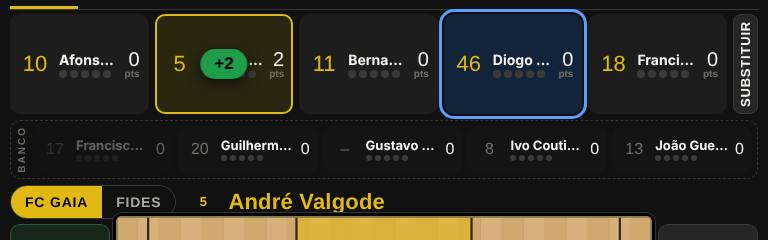
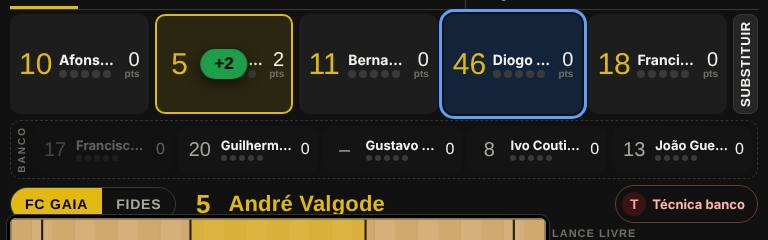
Ações num painel à direita do campo com pares lado a lado; Técnica banco maior no canto; assistência com número e nome; guia rápido atualizado
Claude-Session: https://claude.ai/code/session_011MJLTkQqLgfMWcZVacVG5X

diff --git a/index.html b/index.html
@@ -623,6 +623,36 @@ body.fit .pl.bench .av.nbonly .nb{font-size:20px!important}
 .tbtn b{color:var(--ko)}
 .tbm{max-width:480px!important}.tbk{border-top:1px solid var(--line);padding-top:10px;margin-top:10px}.tbk h4{margin:0 0 2px}.tbk .hint{margin:0}
 .zsep2 path{fill:none;stroke:rgba(255,255,255,.55);stroke-width:5}
+
+/* ===== v14: painel de ações à direita, pares lado a lado ===== */
+.cgrid{grid-template-columns:minmax(0,var(--cw,620px)) 228px!important;justify-content:center}
+.acts.panel{display:grid;grid-template-columns:1fr 1fr;grid-template-rows:auto 1fr auto 1fr auto 1fr auto 1fr auto 1fr .62fr;gap:4px 6px;min-height:0;align-content:stretch}
+.acts.panel .pg{grid-column:1/-1;font-family:var(--f-cond);font-weight:700;font-size:11px;letter-spacing:1px;text-transform:uppercase;color:var(--dim);margin-top:3px;line-height:1}
+.acts.panel .pg:first-child{margin-top:0}
+.acts.panel .act{min-height:44px;padding:2px;font-size:17px}
+.acts.panel .act.mk,.acts.panel .act.ms{font-size:24px;line-height:1}.acts.panel .act.mk small,.acts.panel .act.ms small{font-size:10px;margin-top:2px}
+.acts.panel .act.fx{font-size:13px!important}
+body.fit .cgrid{grid-template-columns:var(--cw,minmax(0,1fr)) 228px!important}
+body.fit .acts.panel .act{min-height:0}
+@media (max-width:1100px) and (orientation:portrait){body.fit .cgrid{grid-template-columns:var(--cw,minmax(0,1fr)) 206px!important}.acts.panel .act{font-size:15px}}
+@media (max-width:1100px) and (orientation:landscape){body.fit .cgrid{grid-template-columns:var(--cw,minmax(0,1fr)) 200px!important}}
+@media (max-width:600px){.cgrid{grid-template-columns:1fr!important}.acts.panel{grid-template-rows:none}}
+.tbtn{display:inline-flex;align-items:center;gap:6px;border:1px solid #6b3a35!important;border-style:solid!important;color:#ffb4ab!important;font-size:13px!important;padding:6px 12px 6px 6px!important;min-height:36px}
+.tbtn i{font-style:normal;width:24px;height:24px;border-radius:50%;display:grid;place-items:center;background:#3a1414;color:#ff9b91;font-family:var(--f-disp);font-size:14px}
+:root[data-theme=light] .tbtn{color:#b0352b!important;border-color:#e0a39d!important}:root[data-theme=light] .tbtn i{background:#fbe4e1;color:#b0352b}
+.astp{padding:8px 8px 8px 14px;gap:6px;max-width:96%;flex-wrap:wrap;justify-content:center;border-radius:18px}
+.astp button{display:flex;flex-direction:column;align-items:center;justify-content:center;min-width:76px;height:auto;padding:5px 10px;border-radius:12px;line-height:1.05}
+.astp button b{font-family:var(--f-disp);font-weight:400;font-size:24px;color:var(--gold)}
+.astp button span{font-family:var(--f-cond);font-weight:700;font-size:14px;color:#fff;max-width:96px;overflow:hidden;text-overflow:ellipsis;white-space:nowrap}
+.astp button.no{align-self:stretch;height:auto}
+.acts.panel{grid-template-columns:minmax(0,1fr) minmax(0,1fr)}.acts.panel .act{letter-spacing:.2px;overflow:hidden}
+@media (max-width:1100px){.acts.panel .act{font-size:14px!important}.acts.panel .act.mk,.acts.panel .act.ms{font-size:22px!important}}
+.astp{display:grid!important;grid-template-columns:repeat(5,auto);border-radius:16px;padding:8px}
+.astp>span{grid-column:1/-1;text-align:center;margin:0 0 2px}
+.astp button{min-width:80px}.astp button.no{min-width:56px}
+@media (max-width:1100px) and (orientation:portrait){.astp{width:max-content;max-width:98%}.astp button{min-width:82px;padding:5px 6px}.astp button.no{min-width:50px}.astp button span{max-width:80px;font-size:13px}}
+.acts.panel .act:not(.mk):not(.ms):not(.fx){font-size:15px!important}
+@media (max-width:1100px) and (orientation:portrait){.acts.panel .act:not(.mk):not(.ms):not(.fx){font-size:13.5px!important;letter-spacing:0}}
 </style></head>
 <body>
 <header class="top"><a class="brand" id="brand" href="#" title="Ir para o início de sessão"><img id="crest" alt=""><h1>FC Gaia<small>Estatísticas de jogo</small></h1></a><span class="sp"></span><button class="thm" id="help" type="button" aria-label="Ajuda" title="Guia rápido">?</button><button class="thm" id="thm" type="button" aria-label="Mudar tema"></button><div class="who" id="who"></div>
@@ -632,7 +662,7 @@ body.fit .pl.bench .av.nbonly .nb{font-size:20px!important}
 <script src="xlsx.full.min.js"></script>
 <script>
[1 lines of base64/hex data omitted]
-const VER="17/10 00:22";
+const VER="17/10 00:27";
 let DATA=null;
 const TEAMS=[["Seniores Masc","Seniores"],["Esperanças","Esperanças"],["Sub-18 Masc A","Sub 18 A"],["Sub-18 Masc B","Sub 18 B"],["Sub-16 Masc A","Sub 16 A"],["Sub-16 Masc B","Sub 16 B"],["Sub-14 Masc A","Sub 14 A"],["Sub-14 Masc B","Sub 14 B"],["Sub-12","Sub 12"],["Sub-10","Sub 10"],["Sub-8","Sub 8"]];
 const TN=Object.fromEntries(TEAMS);
@@ -1213,7 +1243,7 @@ function actOpp(type,extra){const s=G.ost;snap();let pts=0;
 let ASTP=null;
 function astBar(){if(!ASTP||SIDE==="them"||Date.now()-ASTP.t>9000||!G.oncourt.includes(ASTP.id))return "";
   const mates=G.oncourt.filter(x=>x!==ASTP.id).map(pById);
-  return `<div class="astp" role="group" aria-label="Assistência"><span>Assistência?</span>${mates.map(p=>`<button data-ast="${esc(p.id)}" title="${esc(p.name)}">${esc(p.num||"–")}</button>`).join("")}<button data-ast="" class="no">Não</button></div>`}
+  return `<div class="astp" role="group" aria-label="Assistência"><span>Assistência?</span>${mates.map(p=>{const w=String(p.name).trim().split(/\s+/);const fn=w[0],dup=mates.filter(q=>String(q.name).split(/\s+/)[0]===fn).length>1;return `<button data-ast="${esc(p.id)}"><b>${esc(p.num||"–")}</b><span>${esc(fn+(dup&&w.length>1?" "+w[w.length-1][0]+".":""))}</span></button>`}).join("")}<button data-ast="" class="no">Não</button></div>`}
 function giveAst(id){ASTP=null;if(!id){render();return}snap();G.st[id].ast++;addLog({t:"ast",id});FLASH={id,t:Date.now(),x:"Assistência",c:""};store();render()}
 function act(type,extra){if(SIDE==="them")return actOpp(type,extra);ASTP=null;if(!SEL){toast("Escolhe primeiro um atleta");return}const id=SEL,s=G.st[id];snap();
   let pts=0;
@@ -1295,8 +1325,8 @@ const eff=s=>s.pts+s.or+s.dr+s.ast+s.stl+s.blk-(s.a2-s.m2)-(s.a3-s.m3)-(s.af-s.m
 function bsRows(){return G.roster.map(p=>{const s=G.st[p.id];return {p,s}})}
 /* modo de jogo: tudo cabe num ecrã (tablet), o campo ocupa o espaço que sobra */
 const FITQ=matchMedia("(min-width:700px) and (min-height:560px)");
-function fitCourt(){const g=document.querySelector(".fit .cgrid");if(!g)return;const cs=getComputedStyle(g),side=document.querySelector(".cgrid .al");
-  const w=g.clientWidth-2*(side?side.offsetWidth:0)-2*parseFloat(cs.columnGap||0),h=g.clientHeight;const s=Math.max(200,Math.floor(Math.min(w,h*1500/1400)));g.style.setProperty("--cw",s+"px")}
+function fitCourt(){const g=document.querySelector(".fit .cgrid");if(!g)return;const cs=getComputedStyle(g),side=document.querySelector(".cgrid .panel");
+  const w=g.clientWidth-(side?side.offsetWidth:0)-parseFloat(cs.columnGap||0),h=g.clientHeight;const s=Math.max(200,Math.floor(Math.min(w,h*1500/1400)));g.style.setProperty("--cw",s+"px")}
 addEventListener("resize",()=>{if(G&&VIEW==="live"){document.body.classList.toggle("fit",G.status!=="fim"&&FITQ.matches);fitCourt()}});
 function render(){if(!G)return renderSetup();const fin=G.status==="fim"||isRO();if(fin&&VIEW==="live")VIEW="team";document.body.classList.toggle("fit",VIEW==="live"&&!fin&&FITQ.matches);$("#b-new").hidden=true;$("#gact").hidden=false;
   $("#b-save").textContent=fin?"‹ Voltar":"Gravar e sair";$("#b-cancel").hidden=true;
@@ -1327,11 +1357,17 @@ function render(){if(!G)return renderSetup();const fin=G.status==="fim"||isRO();
       <div class="benchw" data-zone="bench"><h3>Banco</h3><div class="plist bench">${bench.map(p=>plb(p,true)).join("")}</div></div></div>
      <div class="ccol"><div class="sidebar"><div class="seg2" role="group" aria-label="Equipa"><button data-side="us" aria-pressed="${!opp}">FC Gaia</button><button data-side="them" aria-pressed="${opp}">${esc(G.opp)}</button></div>
       <div class="selname${opp?" o":""}${sp&&!opp&&!need?" has":""}">${opp?`Ações da equipa adversária`:need>0?"Escolhe o cinco inicial":sp?`${av(sp)}<span>${esc(sp.name)}</span>`:"Toca num atleta em campo"}</div>
-      <button class="tbtn" id="b-tb" title="Falta técnica ao treinador ou ao banco">T. banco${(()=>{const c=coachF();const n=c.us.c+c.us.b+c.them.c+c.them.b;return n?` <b>${n}</b>`:""})()}</button></div>
+      <button class="tbtn" id="b-tb" title="Falta técnica ao treinador ou ao banco"><i>T</i>Técnica banco${(()=>{const c=coachF();const n=c.us.c+c.us.b+c.them.c+c.them.b;return n?` <b>${n}</b>`:""})()}</button></div>
       <div class="cgrid">
-       <div class="acts side al">${A("1+","L. livre","Convertido","mk")}${A("or","Ressalto","Ofensivo")}${A("stl","Roubo")}${A("ast","Assist.")}${A("fp","Falta","Pessoal","fl")}${A("fu","Antidesp.","","fx")}</div>
+
        <div class="cwrap${opp?" o":""}"><div class="cin">${courtSVG(shots,true)}<div class="shotpop" id="shotpop" hidden></div>${astBar()}${need>0&&!opp?`<div class="cmask five"><b>Cinco inicial · ${G.oncourt.length}/5</b><span>Toca nos atletas do banco ou arrasta-os para “Em campo”.</span></div>`:dis?`<div class="cmask">Toca num atleta em campo para marcar lançamentos</div>`:""}</div></div>
-       <div class="acts side ar">${A("1-","L. livre","Falhado","ms")}${A("dr","Ressalto","Defensivo")}${A("tov","Perda")}${A("blk","Desarme")}${A("fd","Falta","Recebida","fr")}${A("ft","Técnica","","fx")}</div>
+       <div class="acts panel" aria-label="Ações">
+        <span class="pg">Lance livre</span>${A("1+","✓","Convertido","mk")}${A("1-","✕","Falhado","ms")}
+        <span class="pg">Ressalto</span>${A("or","Ofensivo","","")}${A("dr","Defensivo","","")}
+        <span class="pg">Bola</span>${A("stl","Roubo","","")}${A("tov","Perda","","")}
+        <span class="pg">Passe e defesa</span>${A("ast","Assistência","","")}${A("blk","Desarme","","")}
+        <span class="pg">Faltas</span>${A("fp","Pessoal","Cometida","fl")}${A("fd","Recebida","Sofrida","fr")}
+        ${A("fu","Antidesp.","","fx")}${A("ft","Técnica","","fx")}</div>
       </div>
       <div class="lastbar">${last[0]?`<span class="lq">${last[0].q>G.np?"P"+(last[0].q-G.np):last[0].q+"P"} ${fmtT(last[0].c)}</span><span class="lt">${esc(logText(last[0]))}</span>`:`<span class="lt hint">Toca no campo onde foi o lançamento. Para substituir, arrasta um atleta do banco para cima de quem sai.</span>`}
        <button class="undo" id="b-undo"${G.undo.length?"":" disabled"}>↶ Anular</button></div></div></div>`}

diff --git a/fonte/stats_src.html b/fonte/stats_src.html
@@ -622,6 +622,36 @@ body.fit .pl.bench .av.nbonly .nb{font-size:20px!important}
 .tbtn b{color:var(--ko)}
 .tbm{max-width:480px!important}.tbk{border-top:1px solid var(--line);padding-top:10px;margin-top:10px}.tbk h4{margin:0 0 2px}.tbk .hint{margin:0}
 .zsep2 path{fill:none;stroke:rgba(255,255,255,.55);stroke-width:5}
+
+/* ===== v14: painel de ações à direita, pares lado a lado ===== */
+.cgrid{grid-template-columns:minmax(0,var(--cw,620px)) 228px!important;justify-content:center}
+.acts.panel{display:grid;grid-template-columns:1fr 1fr;grid-template-rows:auto 1fr auto 1fr auto 1fr auto 1fr auto 1fr .62fr;gap:4px 6px;min-height:0;align-content:stretch}
+.acts.panel .pg{grid-column:1/-1;font-family:var(--f-cond);font-weight:700;font-size:11px;letter-spacing:1px;text-transform:uppercase;color:var(--dim);margin-top:3px;line-height:1}
+.acts.panel .pg:first-child{margin-top:0}
+.acts.panel .act{min-height:44px;padding:2px;font-size:17px}
+.acts.panel .act.mk,.acts.panel .act.ms{font-size:24px;line-height:1}.acts.panel .act.mk small,.acts.panel .act.ms small{font-size:10px;margin-top:2px}
+.acts.panel .act.fx{font-size:13px!important}
+body.fit .cgrid{grid-template-columns:var(--cw,minmax(0,1fr)) 228px!important}
+body.fit .acts.panel .act{min-height:0}
+@media (max-width:1100px) and (orientation:portrait){body.fit .cgrid{grid-template-columns:var(--cw,minmax(0,1fr)) 206px!important}.acts.panel .act{font-size:15px}}
+@media (max-width:1100px) and (orientation:landscape){body.fit .cgrid{grid-template-columns:var(--cw,minmax(0,1fr)) 200px!important}}
+@media (max-width:600px){.cgrid{grid-template-columns:1fr!important}.acts.panel{grid-template-rows:none}}
+.tbtn{display:inline-flex;align-items:center;gap:6px;border:1px solid #6b3a35!important;border-style:solid!important;color:#ffb4ab!important;font-size:13px!important;padding:6px 12px 6px 6px!important;min-height:36px}
+.tbtn i{font-style:normal;width:24px;height:24px;border-radius:50%;display:grid;place-items:center;background:#3a1414;color:#ff9b91;font-family:var(--f-disp);font-size:14px}
+:root[data-theme=light] .tbtn{color:#b0352b!important;border-color:#e0a39d!important}:root[data-theme=light] .tbtn i{background:#fbe4e1;color:#b0352b}
+.astp{padding:8px 8px 8px 14px;gap:6px;max-width:96%;flex-wrap:wrap;justify-content:center;border-radius:18px}
+.astp button{display:flex;flex-direction:column;align-items:center;justify-content:center;min-width:76px;height:auto;padding:5px 10px;border-radius:12px;line-height:1.05}
+.astp button b{font-family:var(--f-disp);font-weight:400;font-size:24px;color:var(--gold)}
+.astp button span{font-family:var(--f-cond);font-weight:700;font-size:14px;color:#fff;max-width:96px;overflow:hidden;text-overflow:ellipsis;white-space:nowrap}
+.astp button.no{align-self:stretch;height:auto}
+.acts.panel{grid-template-columns:minmax(0,1fr) minmax(0,1fr)}.acts.panel .act{letter-spacing:.2px;overflow:hidden}
+@media (max-width:1100px){.acts.panel .act{font-size:14px!important}.acts.panel .act.mk,.acts.panel .act.ms{font-size:22px!important}}
+.astp{display:grid!important;grid-template-columns:repeat(5,auto);border-radius:16px;padding:8px}
+.astp>span{grid-column:1/-1;text-align:center;margin:0 0 2px}
+.astp button{min-width:80px}.astp button.no{min-width:56px}
+@media (max-width:1100px) and (orientation:portrait){.astp{width:max-content;max-width:98%}.astp button{min-width:82px;padding:5px 6px}.astp button.no{min-width:50px}.astp button span{max-width:80px;font-size:13px}}
+.acts.panel .act:not(.mk):not(.ms):not(.fx){font-size:15px!important}
+@media (max-width:1100px) and (orientation:portrait){.acts.panel .act:not(.mk):not(.ms):not(.fx){font-size:13.5px!important;letter-spacing:0}}
 </style></head>
 <body>
 <header class="top"><a class="brand" id="brand" href="#" title="Ir para o início de sessão"><img id="crest" alt=""><h1>FC Gaia<small>Estatísticas de jogo</small></h1></a><span class="sp"></span><button class="thm" id="help" type="button" aria-label="Ajuda" title="Guia rápido">?</button><button class="thm" id="thm" type="button" aria-label="Mudar tema"></button><div class="who" id="who"></div>
@@ -1212,7 +1242,7 @@ function actOpp(type,extra){const s=G.ost;snap();let pts=0;
 let ASTP=null;
 function astBar(){if(!ASTP||SIDE==="them"||Date.now()-ASTP.t>9000||!G.oncourt.includes(ASTP.id))return "";
   const mates=G.oncourt.filter(x=>x!==ASTP.id).map(pById);
-  return `<div class="astp" role="group" aria-label="Assistência"><span>Assistência?</span>${mates.map(p=>`<button data-ast="${esc(p.id)}" title="${esc(p.name)}">${esc(p.num||"–")}</button>`).join("")}<button data-ast="" class="no">Não</button></div>`}
+  return `<div class="astp" role="group" aria-label="Assistência"><span>Assistência?</span>${mates.map(p=>{const w=String(p.name).trim().split(/\s+/);const fn=w[0],dup=mates.filter(q=>String(q.name).split(/\s+/)[0]===fn).length>1;return `<button data-ast="${esc(p.id)}"><b>${esc(p.num||"–")}</b><span>${esc(fn+(dup&&w.length>1?" "+w[w.length-1][0]+".":""))}</span></button>`}).join("")}<button data-ast="" class="no">Não</button></div>`}
 function giveAst(id){ASTP=null;if(!id){render();return}snap();G.st[id].ast++;addLog({t:"ast",id});FLASH={id,t:Date.now(),x:"Assistência",c:""};store();render()}
 function act(type,extra){if(SIDE==="them")return actOpp(type,extra);ASTP=null;if(!SEL){toast("Escolhe primeiro um atleta");return}const id=SEL,s=G.st[id];snap();
   let pts=0;
@@ -1294,8 +1324,8 @@ const eff=s=>s.pts+s.or+s.dr+s.ast+s.stl+s.blk-(s.a2-s.m2)-(s.a3-s.m3)-(s.af-s.m
 function bsRows(){return G.roster.map(p=>{const s=G.st[p.id];return {p,s}})}
 /* modo de jogo: tudo cabe num ecrã (tablet), o campo ocupa o espaço que sobra */
 const FITQ=matchMedia("(min-width:700px) and (min-height:560px)");
-function fitCourt(){const g=document.querySelector(".fit .cgrid");if(!g)return;const cs=getComputedStyle(g),side=document.querySelector(".cgrid .al");
-  const w=g.clientWidth-2*(side?side.offsetWidth:0)-2*parseFloat(cs.columnGap||0),h=g.clientHeight;const s=Math.max(200,Math.floor(Math.min(w,h*1500/1400)));g.style.setProperty("--cw",s+"px")}
+function fitCourt(){const g=document.querySelector(".fit .cgrid");if(!g)return;const cs=getComputedStyle(g),side=document.querySelector(".cgrid .panel");
+  const w=g.clientWidth-(side?side.offsetWidth:0)-parseFloat(cs.columnGap||0),h=g.clientHeight;const s=Math.max(200,Math.floor(Math.min(w,h*1500/1400)));g.style.setProperty("--cw",s+"px")}
 addEventListener("resize",()=>{if(G&&VIEW==="live"){document.body.classList.toggle("fit",G.status!=="fim"&&FITQ.matches);fitCourt()}});
 function render(){if(!G)return renderSetup();const fin=G.status==="fim"||isRO();if(fin&&VIEW==="live")VIEW="team";document.body.classList.toggle("fit",VIEW==="live"&&!fin&&FITQ.matches);$("#b-new").hidden=true;$("#gact").hidden=false;
   $("#b-save").textContent=fin?"‹ Voltar":"Gravar e sair";$("#b-cancel").hidden=true;
@@ -1326,11 +1356,17 @@ function render(){if(!G)return renderSetup();const fin=G.status==="fim"||isRO();
       <div class="benchw" data-zone="bench"><h3>Banco</h3><div class="plist bench">${bench.map(p=>plb(p,true)).join("")}</div></div></div>
      <div class="ccol"><div class="sidebar"><div class="seg2" role="group" aria-label="Equipa"><button data-side="us" aria-pressed="${!opp}">FC Gaia</button><button data-side="them" aria-pressed="${opp}">${esc(G.opp)}</button></div>
       <div class="selname${opp?" o":""}${sp&&!opp&&!need?" has":""}">${opp?`Ações da equipa adversária`:need>0?"Escolhe o cinco inicial":sp?`${av(sp)}<span>${esc(sp.name)}</span>`:"Toca num atleta em campo"}</div>
-      <button class="tbtn" id="b-tb" title="Falta técnica ao treinador ou ao banco">T. banco${(()=>{const c=coachF();const n=c.us.c+c.us.b+c.them.c+c.them.b;return n?` <b>${n}</b>`:""})()}</button></div>
+      <button class="tbtn" id="b-tb" title="Falta técnica ao treinador ou ao banco"><i>T</i>Técnica banco${(()=>{const c=coachF();const n=c.us.c+c.us.b+c.them.c+c.them.b;return n?` <b>${n}</b>`:""})()}</button></div>
       <div class="cgrid">
-       <div class="acts side al">${A("1+","L. livre","Convertido","mk")}${A("or","Ressalto","Ofensivo")}${A("stl","Roubo")}${A("ast","Assist.")}${A("fp","Falta","Pessoal","fl")}${A("fu","Antidesp.","","fx")}</div>
+
        <div class="cwrap${opp?" o":""}"><div class="cin">${courtSVG(shots,true)}<div class="shotpop" id="shotpop" hidden></div>${astBar()}${need>0&&!opp?`<div class="cmask five"><b>Cinco inicial · ${G.oncourt.length}/5</b><span>Toca nos atletas do banco ou arrasta-os para “Em campo”.</span></div>`:dis?`<div class="cmask">Toca num atleta em campo para marcar lançamentos</div>`:""}</div></div>
-       <div class="acts side ar">${A("1-","L. livre","Falhado","ms")}${A("dr","Ressalto","Defensivo")}${A("tov","Perda")}${A("blk","Desarme")}${A("fd","Falta","Recebida","fr")}${A("ft","Técnica","","fx")}</div>
+       <div class="acts panel" aria-label="Ações">
+        <span class="pg">Lance livre</span>${A("1+","✓","Convertido","mk")}${A("1-","✕","Falhado","ms")}
+        <span class="pg">Ressalto</span>${A("or","Ofensivo","","")}${A("dr","Defensivo","","")}
+        <span class="pg">Bola</span>${A("stl","Roubo","","")}${A("tov","Perda","","")}
+        <span class="pg">Passe e defesa</span>${A("ast","Assistência","","")}${A("blk","Desarme","","")}
+        <span class="pg">Faltas</span>${A("fp","Pessoal","Cometida","fl")}${A("fd","Recebida","Sofrida","fr")}
+        ${A("fu","Antidesp.","","fx")}${A("ft","Técnica","","fx")}</div>
       </div>
       <div class="lastbar">${last[0]?`<span class="lq">${last[0].q>G.np?"P"+(last[0].q-G.np):last[0].q+"P"} ${fmtT(last[0].c)}</span><span class="lt">${esc(logText(last[0]))}</span>`:`<span class="lt hint">Toca no campo onde foi o lançamento. Para substituir, arrasta um atleta do banco para cima de quem sai.</span>`}
        <button class="undo" id="b-undo"${G.undo.length?"":" disabled"}>↶ Anular</button></div></div></div>`}
